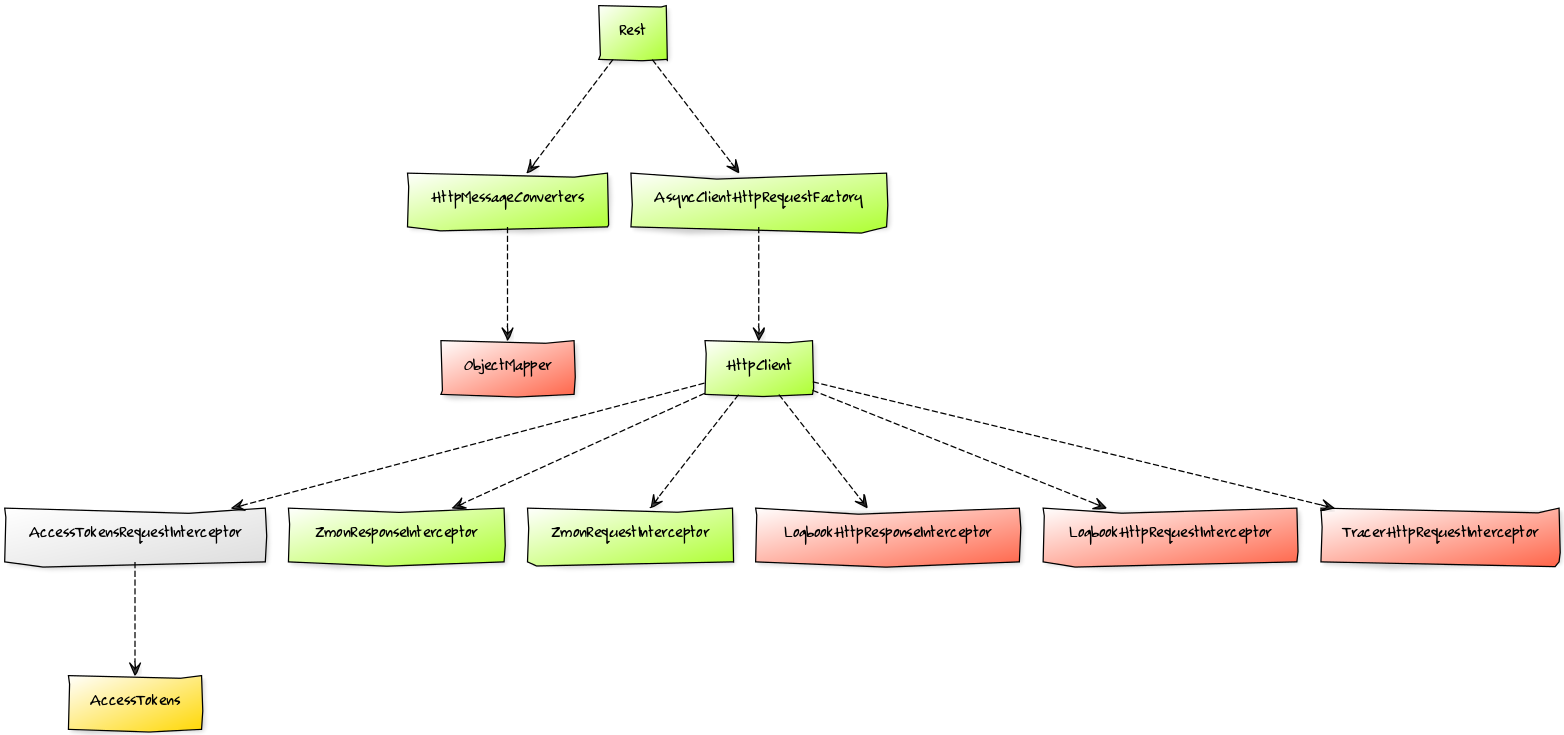
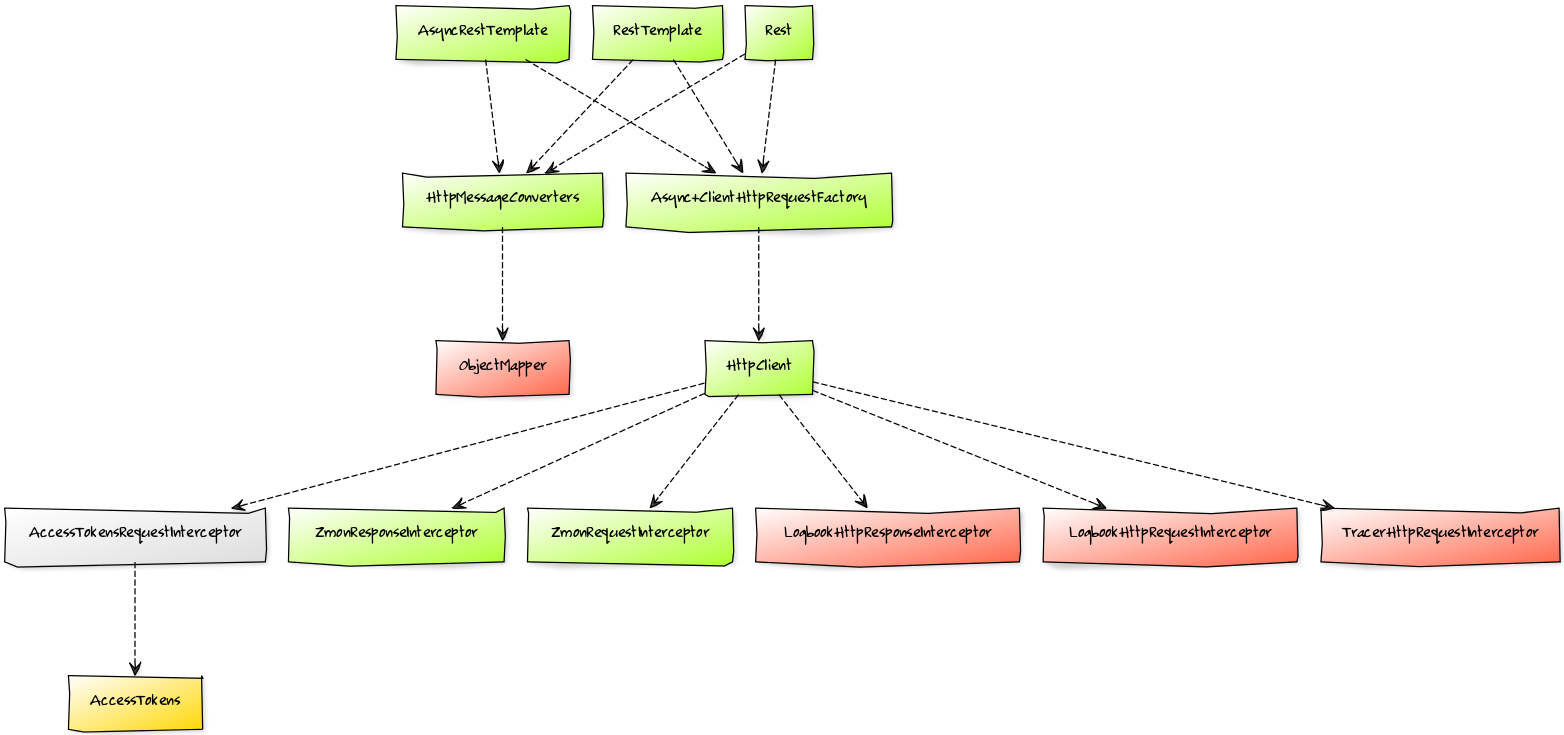
Added support for Async/RestTemplate
Fixes #50

diff --git a/src/main/java/org/zalando/putittorest/RestClientPostProcessor.java b/src/main/java/org/zalando/putittorest/RestClientPostProcessor.java
@@ -19,10 +19,12 @@ import org.springframework.http.client.AsyncClientHttpRequestFactory;
 import org.springframework.http.converter.StringHttpMessageConverter;
 import org.springframework.http.converter.json.MappingJackson2HttpMessageConverter;
 import org.springframework.scheduling.concurrent.ConcurrentTaskExecutor;
+import org.springframework.web.client.AsyncRestTemplate;
+import org.springframework.web.client.RestTemplate;
+import org.springframework.web.util.DefaultUriTemplateHandler;
 import org.zalando.putittorest.zmon.ZmonRequestInterceptor;
 import org.zalando.putittorest.zmon.ZmonResponseInterceptor;
 import org.zalando.riptide.Rest;
-import org.zalando.riptide.RestBuilder;
 import org.zalando.riptide.httpclient.RestAsyncClientHttpRequestFactory;
 import org.zalando.riptide.stream.Streams;
 import org.zalando.stups.oauth2.httpcomponents.AccessTokensRequestInterceptor;
@@ -51,7 +53,7 @@ public class RestClientPostProcessor implements BeanDefinitionRegistryPostProces
     }
 
     @Override
-    public void postProcessBeanDefinitionRegistry(final BeanDefinitionRegistry beanDefinitionRegistry) throws BeansException {
+    public void postProcessBeanDefinitionRegistry(final BeanDefinitionRegistry beanDefinitionRegistry) {
         this.registry = new Registry(beanDefinitionRegistry);
 
         getSettings().getClients().forEach((id, client) -> {
@@ -59,8 +61,11 @@ public class RestClientPostProcessor implements BeanDefinitionRegistryPostProces
 
             final String convertersId = registerHttpMessageConverters(id);
 
-            final String asyncFactoryId = registerAsyncClientHttpRequestFactory(id, client);
-            registerRest(id, asyncFactoryId, convertersId, baseUrl);
+            final String factoryId = registerAsyncClientHttpRequestFactory(id, client);
+
+            registerRest(id, factoryId, convertersId, baseUrl);
+            registerRestTemplate(id, factoryId, convertersId, baseUrl);
+            registerAsyncRestTemplate(id, factoryId, convertersId, baseUrl);
         });
     }
 
@@ -117,7 +122,8 @@ public class RestClientPostProcessor implements BeanDefinitionRegistryPostProces
         });
     }
 
-    private String registerRest(final String id, final String factoryId, final String convertersId, @Nullable final String baseUrl) {
+    private String registerRest(final String id, final String factoryId, final String convertersId,
+            @Nullable final String baseUrl) {
         return registry.register(id, Rest.class, () -> {
             final BeanDefinitionBuilder rest = genericBeanDefinition(RestFactory.class);
             rest.setFactoryMethod("create");
@@ -131,6 +137,49 @@ public class RestClientPostProcessor implements BeanDefinitionRegistryPostProces
 
             rest.addConstructorArgValue(baseUrl);
             return rest;
+        });
+    }
+
+    private String registerRestTemplate(final String id, final String factoryId, final String convertersId,
+            @Nullable final String baseUrl) {
+        return registry.register(id, RestTemplate.class, () -> {
+            final BeanDefinitionBuilder restTemplate = genericBeanDefinition(RestTemplate.class);
+
+            restTemplate.addConstructorArgReference(factoryId);
+
+            final DefaultUriTemplateHandler handler = new DefaultUriTemplateHandler();
+            handler.setBaseUrl(baseUrl);
+            restTemplate.addPropertyValue("uriTemplateHandler", handler);
+
+            final AbstractBeanDefinition converters = BeanDefinitionBuilder.genericBeanDefinition()
+                    .setFactoryMethod("getConverters")
+                    .getBeanDefinition();
+            converters.setFactoryBeanName(convertersId);
+            restTemplate.addPropertyValue("messageConverters", converters);
+
+            return restTemplate;
+        });
+    }
+
+    private String registerAsyncRestTemplate(final String id, final String factoryId, final String convertersId,
+            @Nullable final String baseUrl) {
+        return registry.register(id, AsyncRestTemplate.class, () -> {
+            final BeanDefinitionBuilder restTemplate = genericBeanDefinition(AsyncRestTemplate.class);
+
+            restTemplate.addConstructorArgReference(factoryId);
+            restTemplate.addConstructorArgReference(factoryId);
+
+            final DefaultUriTemplateHandler handler = new DefaultUriTemplateHandler();
+            handler.setBaseUrl(baseUrl);
+            restTemplate.addPropertyValue("uriTemplateHandler", handler);
+
+            final AbstractBeanDefinition converters = BeanDefinitionBuilder.genericBeanDefinition()
+                    .setFactoryMethod("getConverters")
+                    .getBeanDefinition();
+            converters.setFactoryBeanName(convertersId);
+            restTemplate.addPropertyValue("messageConverters", converters);
+
+            return restTemplate;
         });
     }
 
@@ -175,7 +224,8 @@ public class RestClientPostProcessor implements BeanDefinitionRegistryPostProces
         builder.addPropertyValue("socketTimeout", (int) timeouts.getReadUnit().toMillis(timeouts.getRead()));
     }
 
-    private void configureInterceptors(final BeanDefinitionBuilder builder, final String id, @Nullable final OAuth oauth) {
+    private void configureInterceptors(final BeanDefinitionBuilder builder, final String id,
+            @Nullable final OAuth oauth) {
         final List<Object> requestInterceptors = list();
         final List<Object> responseInterceptors = list();
 

diff --git a/src/test/java/org/zalando/putittorest/ClientConfigurationTest.java b/src/test/java/org/zalando/putittorest/ClientConfigurationTest.java
@@ -3,7 +3,6 @@ package org.zalando.putittorest;
 import org.apache.http.client.HttpClient;
 import org.apache.http.client.config.RequestConfig;
 import org.apache.http.client.methods.Configurable;
-import static org.hamcrest.Matchers.instanceOf;
 import org.junit.Test;
 import org.junit.runner.RunWith;
 import org.springframework.beans.factory.annotation.Autowired;
@@ -12,8 +11,11 @@ import org.springframework.boot.test.context.SpringBootTest;
 import org.springframework.stereotype.Component;
 import org.springframework.test.context.TestPropertySource;
 import org.springframework.test.context.junit4.SpringJUnit4ClassRunner;
+import org.springframework.web.client.AsyncRestTemplate;
+import org.springframework.web.client.RestTemplate;
 import org.zalando.riptide.Rest;
 
+import static org.hamcrest.Matchers.instanceOf;
 import static org.hamcrest.Matchers.is;
 import static org.hamcrest.Matchers.notNullValue;
 import static org.junit.Assert.assertThat;
@@ -39,11 +41,21 @@ public final class ClientConfigurationTest {
 
     @Autowired
     @Qualifier("example")
+    private RestTemplate exampleRestTemplate;
+
+    @Autowired
+    @Qualifier("example")
+    private AsyncRestTemplate exampleAsyncRestTemplate;
+
+    @Autowired
+    @Qualifier("example")
     private HttpClient exampleHttpClient;
 
     @Test
     public void shouldWireOAuthCorrectly() {
         assertThat(exampleRest, is(notNullValue()));
+        assertThat(exampleRestTemplate, is(notNullValue()));
+        assertThat(exampleAsyncRestTemplate, is(notNullValue()));
     }
 
     @Test

diff --git a/src/test/java/org/zalando/putittorest/AsyncClientHttpRequestFactoryOverrideTest.java b/src/test/java/org/zalando/putittorest/AsyncClientHttpRequestFactoryOverrideTest.java
@@ -5,16 +5,17 @@ import org.junit.runner.RunWith;
 import org.springframework.beans.factory.annotation.Autowired;
 import org.springframework.beans.factory.annotation.Qualifier;
 import org.springframework.boot.test.context.SpringBootTest;
-import org.springframework.boot.test.context.SpringBootTest;
 import org.springframework.context.annotation.Bean;
 import org.springframework.context.annotation.Configuration;
 import org.springframework.context.annotation.Import;
 import org.springframework.http.client.AsyncClientHttpRequestFactory;
+import org.springframework.http.client.ClientHttpRequestFactory;
 import org.springframework.stereotype.Component;
 import org.springframework.test.context.junit4.SpringJUnit4ClassRunner;
 
 import static org.junit.Assert.assertThat;
 import static org.mockito.Mockito.mock;
+import static org.mockito.Mockito.withSettings;
 import static org.zalando.putittorest.Mocks.isMock;
 
 @RunWith(SpringJUnit4ClassRunner.class)
@@ -29,7 +30,8 @@ public final class AsyncClientHttpRequestFactoryOverrideTest {
         @Bean
         @Qualifier("example")
         public AsyncClientHttpRequestFactory exampleAsyncClientHttpRequestFactory() {
-            return mock(AsyncClientHttpRequestFactory.class);
+            return mock(AsyncClientHttpRequestFactory.class,
+                    withSettings().extraInterfaces(ClientHttpRequestFactory.class));
         }
 
     }

diff --git a/src/test/java/org/zalando/putittorest/AsyncClientHttpRequestFactoryTest.java b/src/test/java/org/zalando/putittorest/AsyncClientHttpRequestFactoryTest.java
@@ -8,6 +8,7 @@ import org.springframework.boot.test.context.SpringBootTest;
 import org.springframework.context.annotation.Configuration;
 import org.springframework.context.annotation.Import;
 import org.springframework.http.client.AsyncClientHttpRequestFactory;
+import org.springframework.http.client.ClientHttpRequestFactory;
 import org.springframework.stereotype.Component;
 import org.springframework.test.context.junit4.SpringJUnit4ClassRunner;
 import org.zalando.riptide.httpclient.RestAsyncClientHttpRequestFactory;
@@ -28,7 +29,16 @@ public final class AsyncClientHttpRequestFactoryTest {
 
     @Autowired
     @Qualifier("example")
+    private ClientHttpRequestFactory sync;
+
+    @Autowired
+    @Qualifier("example")
     private AsyncClientHttpRequestFactory async;
+
+    @Test
+    public void shouldAutowireSync() {
+        assertThat(sync.getClass(), is(RestAsyncClientHttpRequestFactory.class));
+    }
 
     @Test
     public void shouldAutowireAsync() {

diff --git a/src/main/java/org/zalando/putittorest/Registry.java b/src/main/java/org/zalando/putittorest/Registry.java
@@ -10,19 +10,13 @@ import org.springframework.beans.factory.support.BeanDefinitionRegistry;
 import org.springframework.beans.factory.support.ManagedList;
 import org.zalando.putittorest.annotation.RestClient;
 
-import java.util.Arrays;
 import java.util.Collections;
 import java.util.List;
-import java.util.Map;
-import java.util.Map.Entry;
 import java.util.function.Supplier;
 
 import static com.google.common.base.CaseFormat.LOWER_CAMEL;
 import static com.google.common.base.CaseFormat.LOWER_HYPHEN;
 import static com.google.common.base.CaseFormat.UPPER_CAMEL;
-import static com.google.common.collect.Maps.immutableEntry;
-import static java.util.function.Function.identity;
-import static java.util.stream.Collectors.toMap;
 
 final class Registry {
 

diff --git a/src/test/java/org/zalando/putittorest/AccessTokensEnvironmentVariablesTest.java b/src/test/java/org/zalando/putittorest/AccessTokensEnvironmentVariablesTest.java
@@ -6,8 +6,8 @@ import org.junit.ClassRule;
 import org.junit.Test;
 import org.junit.contrib.java.lang.system.EnvironmentVariables;
 import org.junit.runner.RunWith;
-import org.springframework.boot.autoconfigure.jackson.JacksonAutoConfiguration;
 import org.springframework.boot.autoconfigure.ImportAutoConfiguration;
+import org.springframework.boot.autoconfigure.jackson.JacksonAutoConfiguration;
 import org.springframework.boot.test.context.SpringBootTest;
 import org.springframework.context.annotation.Configuration;
 import org.springframework.test.context.junit4.SpringJUnit4ClassRunner;

diff --git a/src/test/java/org/zalando/putittorest/AccessTokensImplicitDisableTest.java b/src/test/java/org/zalando/putittorest/AccessTokensImplicitDisableTest.java
@@ -3,8 +3,8 @@ package org.zalando.putittorest;
 import org.junit.Test;
 import org.junit.runner.RunWith;
 import org.springframework.beans.factory.annotation.Autowired;
-import org.springframework.boot.autoconfigure.jackson.JacksonAutoConfiguration;
 import org.springframework.boot.autoconfigure.ImportAutoConfiguration;
+import org.springframework.boot.autoconfigure.jackson.JacksonAutoConfiguration;
 import org.springframework.boot.test.context.SpringBootTest;
 import org.springframework.context.annotation.Configuration;
 import org.springframework.stereotype.Component;

diff --git a/src/test/java/org/zalando/putittorest/AccessTokensPropertiesTest.java b/src/test/java/org/zalando/putittorest/AccessTokensPropertiesTest.java
@@ -2,8 +2,8 @@ package org.zalando.putittorest;
 
 import org.junit.Test;
 import org.junit.runner.RunWith;
-import org.springframework.boot.autoconfigure.jackson.JacksonAutoConfiguration;
 import org.springframework.boot.autoconfigure.ImportAutoConfiguration;
+import org.springframework.boot.autoconfigure.jackson.JacksonAutoConfiguration;
 import org.springframework.boot.test.context.SpringBootTest;
 import org.springframework.context.annotation.Configuration;
 import org.springframework.test.context.TestPropertySource;

diff --git a/src/test/java/org/zalando/putittorest/LogbookCompatibilityTest.java b/src/test/java/org/zalando/putittorest/LogbookCompatibilityTest.java
@@ -2,8 +2,8 @@ package org.zalando.putittorest;
 
 import org.junit.Test;
 import org.junit.runner.RunWith;
-import org.springframework.boot.autoconfigure.jackson.JacksonAutoConfiguration;
 import org.springframework.boot.autoconfigure.ImportAutoConfiguration;
+import org.springframework.boot.autoconfigure.jackson.JacksonAutoConfiguration;
 import org.springframework.boot.test.context.SpringBootTest;
 import org.springframework.context.annotation.Configuration;
 import org.springframework.context.annotation.Import;

diff --git a/src/test/java/org/zalando/putittorest/DefaultTestConfiguration.java b/src/test/java/org/zalando/putittorest/DefaultTestConfiguration.java
@@ -1,8 +1,8 @@
 package org.zalando.putittorest;
 
 import com.codahale.metrics.MetricRegistry;
-import org.springframework.boot.autoconfigure.jackson.JacksonAutoConfiguration;
 import org.springframework.boot.autoconfigure.ImportAutoConfiguration;
+import org.springframework.boot.autoconfigure.jackson.JacksonAutoConfiguration;
 import org.springframework.context.annotation.Bean;
 import org.springframework.context.annotation.Configuration;
 import org.springframework.test.context.ActiveProfiles;

diff --git a/README.md b/README.md
@@ -131,6 +131,9 @@ private Rest example;
 All beans that are created for each client use the *Client ID*, in this case `example`, as their qualifier.
 
 Besides `Rest`, you can also alternatively inject any of the following types per client directly:
+- `RestTemplate`
+- `AsyncRestTemplate`
+- `ClientHttpRequestFactory`
 - `AsyncClientHttpRequestFactory`
 - `HttpClient`
 - `ClientHttpMessageConverters`
